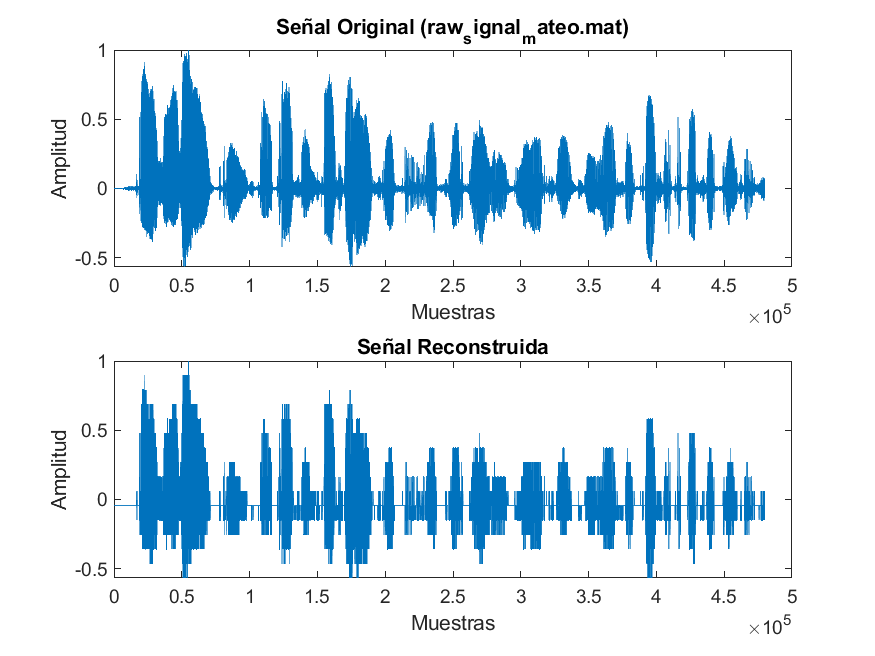
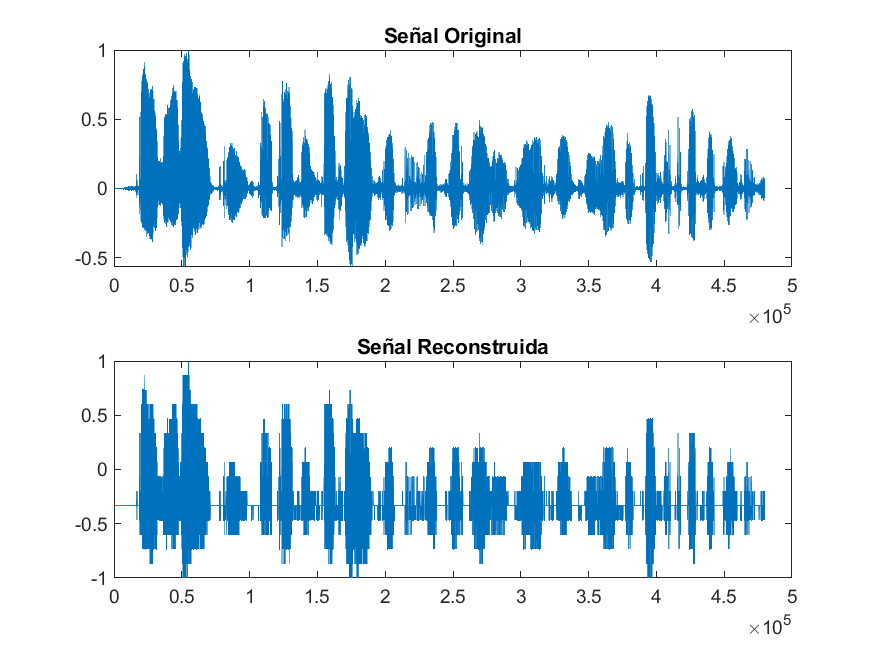
Add files via upload

diff --git a/proyecto_cad.m b/proyecto_cad.m
@@ -1,0 +1,167 @@
+clear; clc; close all;
+
+% Paso 1: Adquisición de la señal (audio .wav)
+Fs = 44100;  % Frecuencia de muestreo
+filename = 'mateo.wav';  % Nombre del archivo WAV
+[signal, ~] = audioread(filename);  % Leer el archivo de audio
+
+if isempty(signal)
+    error('El archivo WAV está vacío o no se pudo leer correctamente.');
+end
+
+% Normalizar la señal para que esté en el rango [-1, 1]
+signal = signal / max(abs(signal));
+
+% Guardar la señal original como 'raw_signal_mateo.mat'
+save('raw_signal_mateo.mat', 'signal');
+
+% Reproducir la señal cargada para verificación
+disp('Reproduciendo la señal cargada...');
+soundsc(signal, Fs);
+pause(length(signal) / Fs);  % Pausar hasta que termine la reproducción
+
+% Gráfico de la señal en el dominio del tiempo (Adquisición)
+figure;
+t = (0:length(signal)-1) / Fs;
+subplot(2, 1, 1);
+plot(t, signal);
+xlabel('Tiempo [s]');
+ylabel('Amplitud');
+title('Señal en el Tiempo (Adquisición)');
+grid on;
+
+% Gráfica de la señal en frecuencia (FFT)
+N = length(signal);
+f = (-N/2:N/2-1)*(Fs/N);  % Eje de frecuencia
+signal_fft = fftshift(fft(signal));  % FFT y desplazamiento de cero
+
+subplot(2, 1, 2);
+plot(f, abs(signal_fft));
+xlabel('Frecuencia [Hz]');
+ylabel('Amplitud');
+title('Espectro de Frecuencia');
+grid on;
+saveas(gcf, 'grafica_tiempo_frecuencia.png');
+
+% Cargar la señal desde el archivo .mat (raw_signal_mateo.mat)
+load('raw_signal_mateo.mat');  % Cargar la señal guardada en raw_signal_mateo.mat
+
+% Paso 2: Codificación PCM y DPCM
+bits_values = [8, 12, 16];
+snr_values = zeros(length(bits_values), 1);
+bit_rate_table = table('Size', [length(bits_values), 2], 'VariableTypes', {'double', 'double'}, 'VariableNames', {'Bits', 'SNR'});
+
+for i = 1:length(bits_values)
+    bits = bits_values(i);
+    max_val = 2^(bits - 1) - 1;
+    pcm_signal = round(signal * max_val) / max_val;  % Cuantización PCM
+    pcm_signal = pcm_signal / max_val;  % Normalización PCM
+    
+    % Calcular SNR
+    noise = pcm_signal - signal;
+    if norm(noise) ~= 0
+        snr = 20 * log10(norm(signal) / norm(noise));  % Si el ruido no es cero, calculamos SNR
+    else
+        snr = 1000;  % En caso de que el ruido sea casi cero, asignamos un valor alto a SNR
+    end
+    snr_values(i) = snr;  % Guardar el valor de SNR
+    
+    % Agregar a la tabla de resultados
+    bit_rate_table(i, :) = {bits, snr};
+end
+
+% Gráfico comparativo señal original vs PCM (Codificación)
+figure;
+subplot(2, 1, 1);
+plot(signal, 'b');
+title('Señal Original');
+subplot(2, 1, 2);
+plot(pcm_signal, 'r--');
+title(['Señal PCM con ', num2str(bits_values(1)), ' bits']);
+saveas(gcf, 'grafica_codificacion.png');
+
+% Tabla bit-rate vs SNR
+disp('Tabla bit-rate vs SNR:');
+disp(bit_rate_table);
+
+% Paso 5: Modulación 16-QAM
+M = 16;  % Usamos 16-QAM (M=16)
+normalized_signal = (signal - min(signal)) / (max(signal) - min(signal));  % Normalizar
+
+% Convertir la señal normalizada a valores enteros para la modulación
+symbols = floor(normalized_signal * (M - 1));  % Mapear la señal a los valores enteros de 0 a M-1
+
+% Modulación QAM (16-QAM)
+mod_signal = qammod(symbols, M);  % Modulación QAM
+
+% Graficar la constelación de la modulación (Modulación)
+figure;
+scatter(real(mod_signal), imag(mod_signal), 'o');
+title('Constelación 16-QAM');
+xlabel('I (In-phase)');
+ylabel('Q (Quadrature)');
+grid on;
+saveas(gcf, 'grafica_constelacion_qam.png');
+
+% Paso 7: Demodulación y reconstrucción de la señal
+demod_signal = qamdemod(mod_signal, M);  % Demodulación QAM
+
+% Reconstrucción de la señal: Es necesario desnormalizar
+reconstructed_signal = (demod_signal / (M - 1));  % Desnormalizar
+
+% Asegurarse de que la señal reconstruida tenga la misma longitud que la original
+reconstructed_signal = reconstructed_signal(1:length(signal));
+
+% Recortar la señal reconstruida a un rango permitido [-1, 1] para evitar clipping
+reconstructed_signal = max(min(reconstructed_signal, 1), -1);
+
+% Graficar la señal original y la reconstruida (Demodulación)
+figure;
+subplot(2, 1, 1);
+plot(signal);
+title('Señal Original');
+subplot(2, 1, 2);
+plot(reconstructed_signal);
+title('Señal Reconstruida');
+saveas(gcf, 'signal_reconstruction_from_mat_plot.png');
+
+% Calcular y mostrar SNR
+signal_power = mean(abs(signal).^2);
+noise_power = mean(abs(reconstructed_signal - signal).^2);
+SNR_calculated = 10 * log10(signal_power / noise_power);
+disp(['SNR Calculado: ', num2str(SNR_calculated), ' dB']);
+
+% Guardar el SNR calculado en un archivo de texto
+fileID = fopen('metrics_from_mat.txt', 'w');  % Abrir el archivo para escribir
+fprintf(fileID, 'SNR Calculado: %.2f dB\n', SNR_calculated);  % Escribir el valor de SNR
+fclose(fileID);  % Cerrar el archivo
+
+% Reproducir la señal decodificada
+disp('Reproduciendo la señal reconstruida...');
+soundsc(reconstructed_signal, Fs);  % Reproducir la señal reconstruida
+
+% Gráfico de la Razón de Compresión y MSE
+compression_ratio = length(signal) / length(pcm_signal);  % Razón de compresión
+MSE = mean((signal - reconstructed_signal).^2);  % Error Cuadrático Medio
+
+figure;
+subplot(2, 1, 1);
+bar(compression_ratio);
+ylabel('Razón de Compresión');
+title('Razón de Compresión');
+subplot(2, 1, 2);
+bar(MSE);
+ylabel('MSE');
+title('Error Cuadrático Medio (MSE)');
+saveas(gcf, 'grafica_compression_mse.png');
+
+% Funciones auxiliares
+function mod_signal = qammod(bits, M)
+    % Modulación QAM
+    mod_signal = (2 * bits) - (M - 1);  % QAM sin necesidad de bi2de
+end
+
+function demod_signal = qamdemod(mod_signal, M)
+    % Demodulación QAM
+    demod_signal = mod_signal;  % Simplificado para este ejemplo
+end
